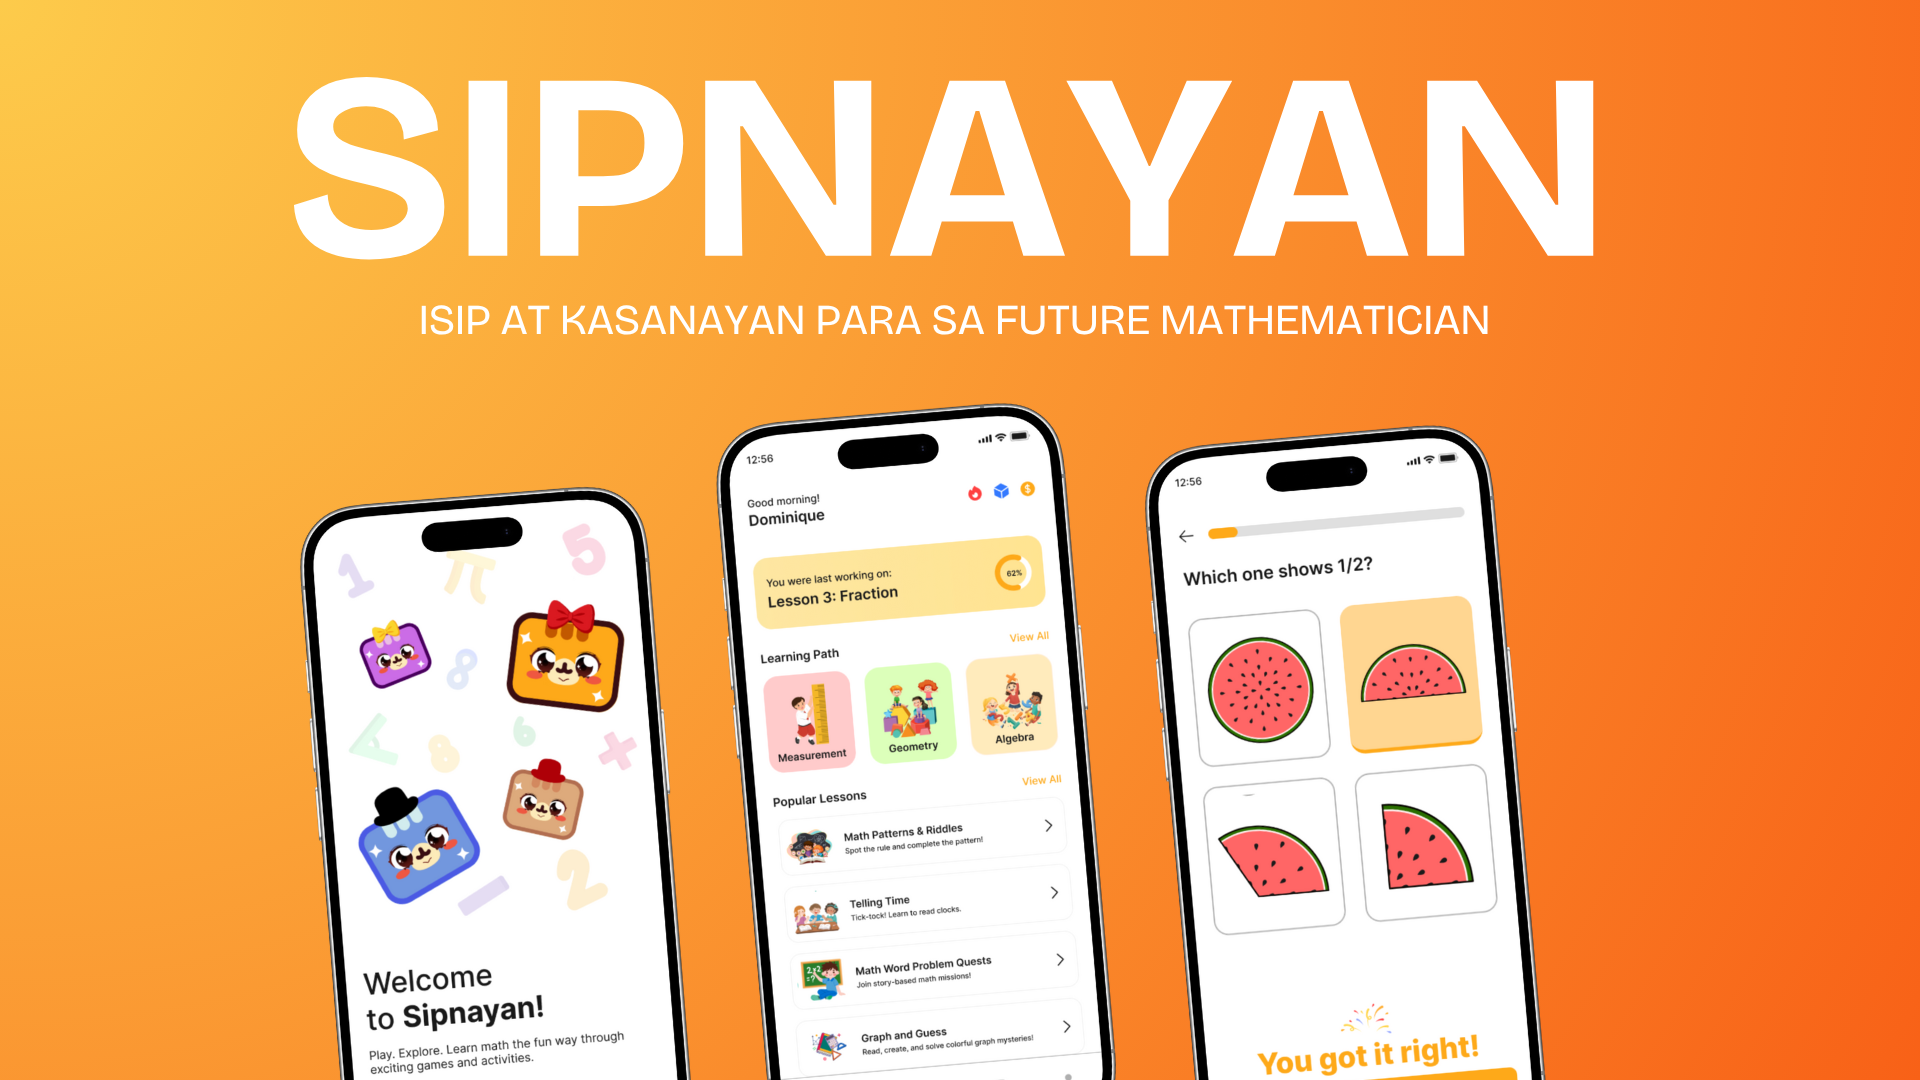
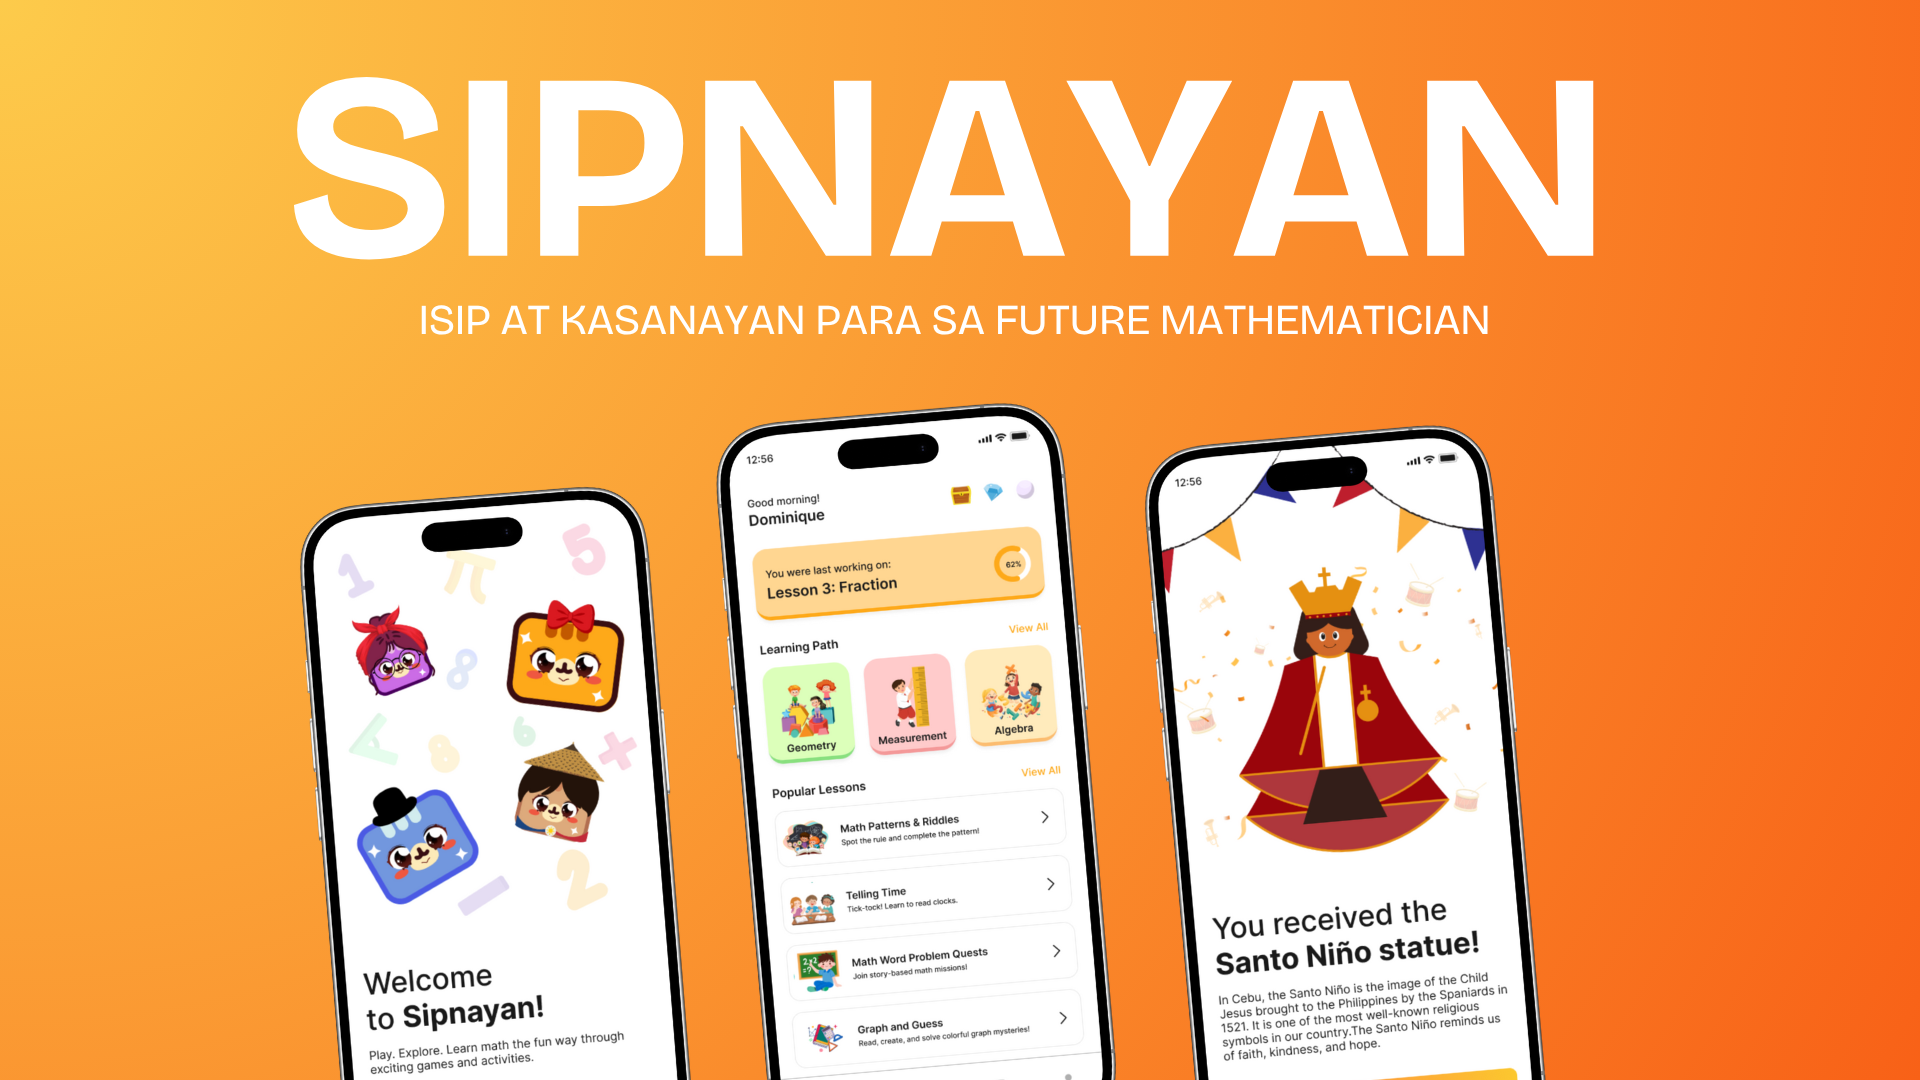
completed sipnayan, in progress lumi

diff --git a/app/projects/[projectId]/page.tsx b/app/projects/[projectId]/page.tsx
@@ -480,118 +480,104 @@ const projectData: ProjectData = {
           title: "Meet Lumi",
           text: "The introduction screen features Lumi, a friendly character who guides the user through their emotional journey—setting a warm, approachable tone for the app."
         },
-        {
-          num: "02",
-          imageSrc: "/lumi2.png",
-          imageAlt: "Atlas goal planning interface",
-          title: "Message to Tomorrow",
-          text: "A reflective space where users write notes to their future selves—these messages are locked and shown after a year, encouraging growth and introspection."
-        },
-        {
-          num: "03",
-          imageSrc: "/lumi3.png", 
-          imageAlt: "Atlas application dashboard showcasing strategic goals",
-          title: "Home Page",
-          text: "The home interface opens with a daily insight. Users are greeted with thoughtful content such as categories that organize healing resources, peaceful sessions designed for unwinding, and the daily light—a soft touchpoint of encouragement."
-        },
-        {
-          num: "04",
-          imageSrc: "/lumi4.png", 
-          imageAlt: "Atlas goal planning interface",
-          title: "First Touch of Emotion",
-          text: "Before diving into the deeper emotional tools, users are asked how they’re currently feeling. This simple check-in moment allows space for presence and honesty—framing the experience with mindfulness."
-        },
-        {
-          num: "05",
-          imageSrc: "/lumi5.png",
-          imageAlt: "Atlas application dashboard showcasing strategic goals",
-          title: "When Emotions Take Color",
-          text: "Here, feelings find expression through color. Instead of using words, users are drawn to hues that mirror their inner world—yellow for joy, red for anger, blue for sorrow, green for anxiety, violet for shock, and gray for detachment."
-        },
-        {
-          num: "06",
-          imageSrc: "/lumi6.png", 
-          imageAlt: "Atlas reporting and analytics section",
-          title: "Seeing Yourself in Another Face",
-          text: "Users choose a character whose facial expression or demeanor reflects their present emotional state. This mirrors the real-world way we empathize—through body language, eyes, and posture—offering a visual method to pinpoint emotions with greater depth."
-        },
-        {
-          num: "07",
-          imageSrc: "/lumi7.png",
-          imageAlt: "Atlas goal planning interface",
-          title: "The Picture That Speaks for You",
-          text: "Through curated images, users select the one that feels most aligned with their internal experience. Visual cues often tap into subconscious emotions, making this feature an artistic and psychological method of emotional recognition."
-        },
-        {
-          num: "08",
-          imageSrc: "/lumi8.png", 
-          imageAlt: "Atlas application dashboard showcasing strategic goals",
-          title: "Shape of a Feeling",
-          text: "By choosing from abstract shapes, users lean into the design psychology of form—sharp lines for tension or anger, smooth curves for peace. The shapes act as emotional mirrors, revealing mood through geometry."
-        },
-        {
-          num: "09",
-          imageSrc: "/lumi9.png", 
-          imageAlt: "Atlas goal planning interface",
-          title: "The Sound of a State",
-          text: "Auditory perception can instantly ground emotion. Whether it’s a calming breeze, static noise, or gentle melody, the chosen sound helps users connect their feelings to a sensory experience. It enhances emotional recognition using sonic resonance."
-        },
-        {
-          num: "10",
-          imageSrc: "/lumi10.png",
-          imageAlt: "Atlas application dashboard showcasing strategic goals",
-          title: "Journal Note",
-          text: "An optional journaling space where users can freely express their thoughts—offering context and deeper emotional clarity through written reflection."
-        },
-        {
-          num: "11",
-          imageSrc: "/lumi11.png",
-          imageAlt: "Atlas application dashboard showcasing strategic goals",
-          title: "Emotion Result",
-          text: "Based on all inputs, Lumi the AI analyzes and determines the most likely emotion being felt today, providing an empathetic summary of the user’s emotional state."
-        },
-        {
-          num: "12",
-          imageSrc: "/lumi12.png",
-          imageAlt: "Atlas application dashboard showcasing strategic goals",
-          title: "Recommendation Section",
-          text: "Once the emotion is identified, Lumi provides personalized suggestions—like light breathing exercises, calming music, or comforting affirmations to help the user cope and heal."
-        },
-        {
-          num: "13",
-          imageSrc: "/lumi13.png",
-          imageAlt: "Atlas application dashboard showcasing strategic goals",
-          title: "Emotion Calendar",
-          text: "A visual map of the user’s emotions across the month—highlighting patterns and emotional cycles for self-awareness and mental wellness tracking."
-        },
-        {
-          num: "14",
-          imageSrc: "/lumi14.png",
-          imageAlt: "Atlas application dashboard showcasing strategic goals",
-          title: "Dashboard",
-          text: "The Dashboard displays a user’s emotional summary for the day, highlights of significant moods, a breakdown of their monthly emotional trends, and a record of actions they’ve taken to manage their feelings—turning emotions into meaningful data."
-        }
       ],
     },
     "sipnayan": {
       title: "Sipnayan",
       quote: "Isip at kasanayan para sa future mathematician",
       description: "Sipnayan is an interactive learning platform designed to make math fun and easier for students. It offers engaging lessons, activities, and assessments that help improve problem-solving skills and boost confidence in mathematics. With Sipnayan, students can enjoy learning at their own pace, while teachers can track their progress and performance.",
-      imageSrc: "/lumiui.png",
+      imageSrc: "/sipnayanui.png",
       myRole: "UI UX Desinger",
-      contributions: "As the sole creator of this project, I was responsible for the overall concept, research and design of the application. I initiated this idea out of a deep concern for the growing number of people silently struggling with their emotions. This project was built with empathy at its core—focusing on gentle, user-friendly interaction that allows users to express their mood through non-verbal methods such as colors, emojis, images, shapes, and sounds. Every decision, from visual selection to tone of messaging, was made to ensure the user feels understood and supported.",
+      contributions: "As a member of the Sipnayan team, I was primarily responsible for the overall design of the application. While the project was a collaborative effort, I took the lead in crafting the visual interface, layout, and user experience. I designed features that make learning math fun and meaningful for Grade 3 students, including interactive lessons, a friendly AI guide named Sip, and cultural rewards like the Mayon Volcano, Santo Niño statue, and the traditional jeepney.",
       myTeam: "Just Me",
-      learnings: "Through this project, I learned that emotions can be expressed in subtle ways—like choosing a color, image, shape, or sound that reflects one’s mood. I also realized how important it is to use gentle, thoughtful language to create a safe space for users. While the topic of emotional wellness is complex and evolving, I’m committed to improving this project through continuous research and development. This is just the beginning, and I hope Lumihood grows into a tool that people can trust and feel supported by.",
+      learnings: "This experience taught me how to design with empathy, especially for children who are still developing their math skills. I learned how to present educational content in a simple yet engaging way, and how to incorporate local culture to make learning more relatable. I also gained a better understanding of user interface (UI) and user experience (UX) design principles, particularly when designing for both young learners and their parents.",
       buttons: ["UI/UX DESIGN", "FIGMA", "CANVA"],
       previewImages: ["/ui1.png", "/ui2.png", "/ui3.png", "/ui4.png", "/ui5.png", "/ui6.png", "/ui7.png", "/ui8.png", "/ui9.png", "/ui10.png", "/ui11.png", "/ui12.png"],
-      link: "https://www.figma.com/proto/D66Guwd2A1yzkKtOgiwAbJ/LUMIHOOD?node-id=61-328&t=Vhkge4baG1Cass7Y-1&scaling=scale-down&content-scaling=fixed&page-id=19%3A2&starting-point-node-id=19%3A3&show-proto-sidebar=1",
+      link: "https://www.figma.com/proto/vRgbhfogTEeyhTHBIl07Fy/Sipnayan?node-id=165-185&t=oWLzGpjevSjtD1ic-1&scaling=min-zoom&content-scaling=fixed&page-id=165%3A2&starting-point-node-id=165%3A185&show-proto-sidebar=1",
       featureHighlights: [
         {
           num: "01",
-          imageSrc: "/lumi1.png", 
+          imageSrc: "/sip1.png", 
           imageAlt: "Atlas reporting and analytics section",
-          title: "Meet Lumi",
-          text: "The introduction screen features Lumi, a friendly character who guides the user through their emotional journey—setting a warm, approachable tone for the app."
+          title: "Who Uses Sipnayan?",
+          text: "Sipnayan is designed for three types of users: students, parents, and teachers. Each user has a unique experience tailored to their role—students enjoy guided learning and fun rewards, parents monitor progress and support learning at home, while teachers track performance and guide classroom instruction."
+        },
+        {
+          num: "02",
+          imageSrc: "/sip2.png",
+          imageAlt: "Atlas goal planning interface",
+          title: "Design Your Own Sip",
+          text: "Students can design their very own Sip, the helpful AI guide that motivates, gives hints, and makes learning more fun! From colors to expressions, make Sip your own!"
+        },
+        {
+          num: "03",
+          imageSrc: "/sip3.png", 
+          imageAlt: "Atlas application dashboard showcasing strategic goals",
+          title: "Student Homepage",
+          text: "The homepage lets students see the lessons they recently worked on, view their personalized learning path, and discover popular lessons that they can explore next."
+        },
+        {
+          num: "04",
+          imageSrc: "/sip4.png", 
+          imageAlt: "Atlas goal planning interface",
+          title: "Lessons Page",
+          text: "Students can browse through all their math lessons here. Completed lessons are highlighted and marked with a ribbon so learners can feel proud of their progress."
+        },
+        {
+          num: "05",
+          imageSrc: "/sip5.png",
+          imageAlt: "Atlas application dashboard showcasing strategic goals",
+          title: "Lesson Roadmap",
+          text: "Each lesson is broken down into smaller subtopics. Students can hop through these steps one at a time, giving them a clear and guided way to master the topic."
+        },
+        {
+          num: "06",
+          imageSrc: "/sip6.png", 
+          imageAlt: "Atlas reporting and analytics section",
+          title: "Quiz Section",
+          text: "Students answer questions in a fun, interactive format. After each correct answer, they receive encouraging feedback — in Filipino — like “Tama ka! Galing!” to boost confidence and make learning lively."
+        },
+        {
+          num: "07",
+          imageSrc: "/sip7.png",
+          imageAlt: "Atlas goal planning interface",
+          title: "Treasure Section",
+          text: "After completing a lesson, students can tap the treasure chest to reveal a surprise item from a region in the Philippines — from Mayon Volcano to Santo Niño statue! A fun and cultural reward for every effort!"
+        },
+        {
+          num: "08",
+          imageSrc: "/sip8.png", 
+          imageAlt: "Atlas application dashboard showcasing strategic goals",
+          title: "Ask for Help Anytime",
+          text: "Students can talk to Sip, their friendly AI guide, whenever they feel stuck. Sip gives hints and explanations in a simple, child-friendly way that’s easy to understand."
+        },
+        {
+          num: "09",
+          imageSrc: "/sip9.png", 
+          imageAlt: "Atlas goal planning interface",
+          title: "Lesson Overview Page",
+          text: "Before starting a lesson, students can read a short description of what they’ll learn and discover what they’ll earn — like pearls, diamonds, and cultural treasures!"
+        },
+        {
+          num: "10",
+          imageSrc: "/sip10.png",
+          imageAlt: "Atlas application dashboard showcasing strategic goals",
+          title: "Treasure Collection",
+          text: "All the treasures that students unlock are safely stored here. They can look back, revisit what they’ve earned, and feel proud of the math journey they’ve completed."
+        },
+        {
+          num: "11",
+          imageSrc: "/sip11.png",
+          imageAlt: "Atlas application dashboard showcasing strategic goals",
+          title: "Parent Dashboard",
+          text: "Parents can view their child’s recent activities, completed lessons, areas needing attention, and all collected treasures. It’s a helpful tool to support learning at home and see where their child shines — or needs help."
+        },
+        {
+          num: "12",
+          imageSrc: "/sip12.png",
+          imageAlt: "Atlas application dashboard showcasing strategic goals",
+          title: "Teacher Dashboard",
+          text: "Teachers can track their students’ progress, identify learning gaps, and manage lesson plans. With clear insights into each learner’s journey, teachers can give the right support at the right time."
         },
       ],
     },

diff --git a/app/projects/page.tsx b/app/projects/page.tsx
@@ -7,16 +7,16 @@ import Link from 'next/link';
 
 const projectData = [
   {
-    imageSrc: "/sipnayanui.png",
-    title: "Sipnayan",
-    description: "Sipnayan is a fun and interactive learning app designed to help young students improve their math skills through engaging activities, lessons, and assessments.",
-    projectId: "sipnayan"
-  },
-  {
     imageSrc: "/lumiui.png",
     title: "Lumihood",
     description: "Lumihood is a gentle mood journal app designed to help you reconnect with your emotions through colors, visuals, sounds, and reflections.",
     projectId: "lumihood"
+  },
+  {
+    imageSrc: "/sipnayanui.png",
+    title: "Sipnayan",
+    description: "Sipnayan is a fun and interactive learning app designed to help young students improve their math skills through engaging activities, lessons, and assessments.",
+    projectId: "sipnayan"
   },
   {
     imageSrc: "/dailyui.png",
@@ -91,7 +91,7 @@ const ProjectsPage = () => {
                     </Link> */}
                     {/* --- MODIFICATION START --- */}
                     {/* 2. Check if the project is 'sipnayan' */}
-                    {project.projectId === "sipnayan" ? (
+                    {project.projectId === "lumihood" ? (
                       // If it is, render a button with an onClick handler
                       <div>
                         <button 
